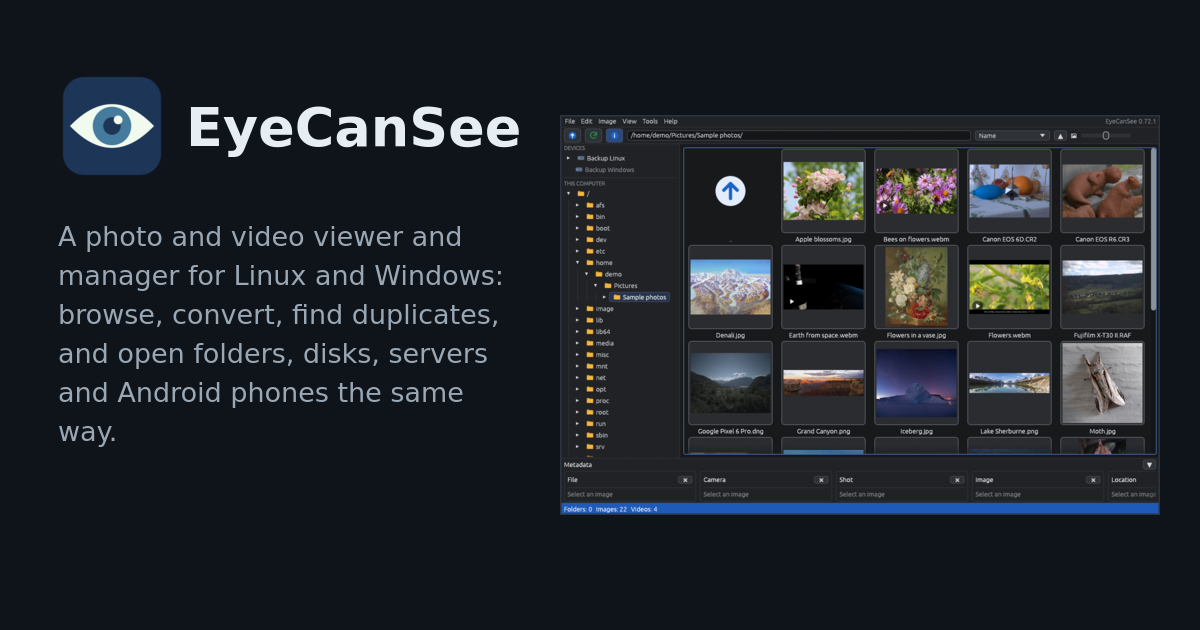
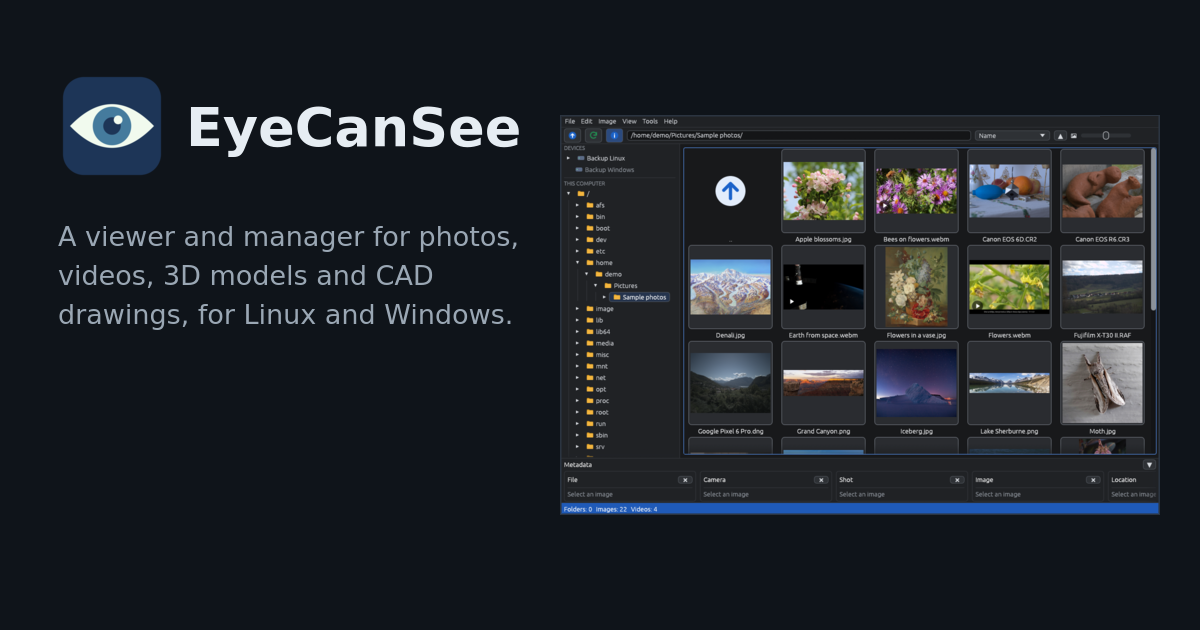
Site: titles, descriptions, image texts, link previews and structured data for search engines
Shorter titles and meta descriptions in both languages (photo, video, 3D and
CAD viewer for Linux and Windows; STEP, DWG and DXF in the description), the
same in og: and in new twitter: tags; alt texts and video labels that say
what each picture shows; clearer headings for the numbers, 3D models and CAD
drawings; "for Linux and Windows" under the English h1. A SoftwareApplication
JSON-LD block per page (data read by search engines, not a script the browser
runs), sitemap.xml with the hreflang of the two pages, robots.txt pointing to
it. Link previews: og.png with the short English sentence and og-it.png with
the Italian one, the version number in the screenshot's corner covered.

diff --git a/site/it/index.html b/site/it/index.html
@@ -3,24 +3,54 @@
 <head>
 <meta charset="utf-8">
 <meta name="viewport" content="width=device-width, initial-scale=1">
-<title>EyeCanSee: visualizzatore e gestore di foto, video, 3D e CAD per Linux e Windows</title>
-<meta name="description" content="Un visualizzatore e gestore di foto, video, modelli 3D e disegni CAD per Linux e Windows: sfoglia, converte, trova i doppioni e apre allo stesso modo cartelle, dischi, server e telefoni Android.">
+<title>EyeCanSee: visualizzatore di foto, video, 3D e CAD per Linux e Windows</title>
+<meta name="description" content="Un visualizzatore e gestore di foto, video, modelli 3D e disegni CAD per Linux e Windows. Apre STEP, DWG e DXF e sfoglia server e telefoni Android.">
 <link rel="canonical" href="https://eyecansee.montinaro.info/it/">
 <link rel="alternate" hreflang="en" href="https://eyecansee.montinaro.info/">
 <link rel="alternate" hreflang="it" href="https://eyecansee.montinaro.info/it/">
 <link rel="alternate" hreflang="x-default" href="https://eyecansee.montinaro.info/">
 <meta property="og:type" content="website">
 <meta property="og:site_name" content="EyeCanSee">
-<meta property="og:title" content="EyeCanSee: visualizzatore e gestore di foto, video, 3D e CAD per Linux e Windows">
-<meta property="og:description" content="Un visualizzatore e gestore di foto, video, modelli 3D e disegni CAD per Linux e Windows: sfoglia, converte, trova i doppioni e apre allo stesso modo cartelle, dischi, server e telefoni Android.">
+<meta property="og:title" content="EyeCanSee: visualizzatore di foto, video, 3D e CAD per Linux e Windows">
+<meta property="og:description" content="Un visualizzatore e gestore di foto, video, modelli 3D e disegni CAD per Linux e Windows. Apre STEP, DWG e DXF e sfoglia server e telefoni Android.">
 <meta property="og:url" content="https://eyecansee.montinaro.info/it/">
-<meta property="og:image" content="https://eyecansee.montinaro.info/img/og.png">
+<meta property="og:image" content="https://eyecansee.montinaro.info/img/og-it.png">
 <meta property="og:image:width" content="1200">
 <meta property="og:image:height" content="630">
-<meta property="og:image:alt" content="EyeCanSee: icona, nome e la griglia delle miniature">
+<meta property="og:image:alt" content="Icona e nome di EyeCanSee, la frase su cosa fa e la griglia delle miniature di una cartella di foto di esempio">
 <meta property="og:locale" content="it_IT">
 <meta property="og:locale:alternate" content="en_US">
 <meta name="twitter:card" content="summary_large_image">
+<meta name="twitter:title" content="EyeCanSee: visualizzatore di foto, video, 3D e CAD per Linux e Windows">
+<meta name="twitter:description" content="Un visualizzatore e gestore di foto, video, modelli 3D e disegni CAD per Linux e Windows. Apre STEP, DWG e DXF e sfoglia server e telefoni Android.">
+<meta name="twitter:image" content="https://eyecansee.montinaro.info/img/og-it.png">
+<meta name="twitter:image:alt" content="Icona e nome di EyeCanSee, la frase su cosa fa e la griglia delle miniature di una cartella di foto di esempio">
+<!-- Structured data for search engines: JSON read by them, not a script the browser runs. -->
+<script type="application/ld+json">
+{
+  "@context": "https://schema.org",
+  "@type": "SoftwareApplication",
+  "name": "EyeCanSee",
+  "description": "Un visualizzatore e gestore di foto, video, modelli 3D e disegni CAD per Linux e Windows.",
+  "url": "https://eyecansee.montinaro.info/it/",
+  "inLanguage": "it",
+  "applicationCategory": "MultimediaApplication",
+  "operatingSystem": "Linux, Windows",
+  "license": "https://spdx.org/licenses/GPL-3.0-or-later.html",
+  "isAccessibleForFree": true,
+  "offers": {
+    "@type": "Offer",
+    "price": "0",
+    "priceCurrency": "EUR"
+  },
+  "downloadUrl": "https://github.com/IoSonoPiero/eyecansee/releases/latest",
+  "sameAs": [
+    "https://github.com/IoSonoPiero/eyecansee",
+    "https://apps.microsoft.com/detail/9PK1598MXLBK"
+  ],
+  "image": "https://eyecansee.montinaro.info/img/og-it.png"
+}
+</script>
 <link rel="icon" href="../img/eyecansee.svg" type="image/svg+xml">
 <link rel="icon" href="../img/favicon-32.png" type="image/png" sizes="32x32">
 <link rel="apple-touch-icon" href="../img/apple-touch-icon.png">
@@ -33,7 +63,7 @@
     <img class="icon" src="../img/eyecansee.svg" width="96" height="96" alt="">
     <h1>EyeCanSee</h1>
     <p>Un visualizzatore e gestore di foto, video, modelli 3D e disegni CAD per Linux e Windows: sfoglia, converte, trova i doppioni e apre allo stesso modo cartelle, dischi, server e telefoni Android.</p>
-    <video class="shot" src="../img/browse.mp4" poster="../img/browse-poster.jpg" width="800" height="534" autoplay muted loop playsinline preload="metadata" aria-label="Una cartella in EyeCanSee: miniature, visore e un video"></video>
+    <video class="shot" src="../img/browse.mp4" poster="../img/browse-poster.jpg" width="800" height="534" autoplay muted loop playsinline preload="metadata" aria-label="Una cartella di foto di esempio in EyeCanSee: la griglia delle miniature, le foto nel visore e un video che si riproduce"></video>
   </div>
 </header>
 
@@ -71,14 +101,14 @@ sudo dnf install eyecansee</code></pre>
     <div class="card"><h3>Converti</h3><p>Immagini in JPEG, PNG, WebP, AVIF, TIFF e altri formati, anche tante alla volta; video con FFmpeg, sulla scheda video quando può, conservando i metadati e la traccia GPS di dashcam e droni.</p></div>
     <div class="card"><h3>Doppioni</h3><p>Trova foto, video e file audio identici in una cartella e nelle sue sottocartelle, su qualsiasi dispositivo, e ne tiene sempre almeno una copia.</p></div>
     <div class="card"><h3>Formati</h3><p>HEIC, AVIF, JPEG XL, PSD, RAW delle fotocamere di molte marche e i formati più rari con ImageMagick. In italiano e in inglese, tema chiaro e scuro.</p></div>
-    <div class="card half"><h3>Modelli 3D</h3><p>STL, OBJ, PLY, glTF, FBX, 3MF e altri, gli edifici IFC, e STEP, IGES e BREP dei CAD meccanici, con un motore scaricato una volta sola. Si vedono con colori e texture, disegnati dalla scheda video, e si esportano in glTF, OBJ, PLY o STL.</p></div>
-    <div class="card half"><h3>Disegni CAD</h3><p>DWG e DXF di AutoCAD e degli altri CAD e file HP-GL per plotter, nitidi a ogni ingrandimento, con livelli, quote, testi e la misura reale del disegno; si esportano come immagine, SVG, o da DWG a DXF e viceversa.</p></div>
+    <div class="card half"><h3>Modelli 3D, STEP e IGES</h3><p>STL, OBJ, PLY, glTF, FBX, 3MF e altri, gli edifici IFC, e STEP, IGES e BREP dei CAD meccanici, con un motore scaricato una volta sola. Si vedono con colori e texture, disegnati dalla scheda video, e si esportano in glTF, OBJ, PLY o STL.</p></div>
+    <div class="card half"><h3>Disegni CAD: DWG, DXF e HP-GL</h3><p>DWG e DXF di AutoCAD e degli altri CAD e file HP-GL per plotter, nitidi a ogni ingrandimento, con livelli, quote, testi e la misura reale del disegno; si esportano come immagine, SVG, o da DWG a DXF e viceversa.</p></div>
   </div>
 </section>
 
 <section id="numbers">
-  <h2>I numeri</h2>
-  <video class="shot" src="../img/mtp-open.mp4" poster="../img/mtp-open-poster.jpg" width="800" height="534" autoplay muted loop playsinline preload="metadata" aria-label="Una cartella del telefono aperta in EyeCanSee"></video>
+  <h2>Telefoni via USB: i numeri</h2>
+  <video class="shot" src="../img/mtp-open.mp4" poster="../img/mtp-open-poster.jpg" width="800" height="534" autoplay muted loop playsinline preload="metadata" aria-label="Una cartella di un telefono Android aperta via USB, con le miniature che compaiono subito"></video>
   <p class="caption">Una cartella di 400 file su un POCO X7 Pro via USB, Fedora 44, cache vuote.</p>
   <div class="numbers">
     <div class="number"><b>0,07 s</b><span>EyeCanSee elenca la cartella, dopo un'apertura di 0,5 s; prime miniature entro 0,8 s</span></div>
@@ -92,15 +122,15 @@ sudo dnf install eyecansee</code></pre>
 <section id="screenshots">
   <h2>Schermate</h2>
   <div class="gallery">
-    <figure><img class="shot" src="../img/grid.png" width="1200" height="800" loading="lazy" alt="La griglia: le miniature di una cartella, con dispositivi e albero delle cartelle a sinistra"><figcaption>La griglia, con dispositivi e cartelle</figcaption></figure>
-    <figure><img class="shot" src="../img/viewer.png" width="1200" height="800" loading="lazy" alt="Il visore"><figcaption>Il visore</figcaption></figure>
-    <figure><img class="shot" src="../img/model-3d.png" width="1200" height="800" loading="lazy" alt="Un modello 3D con le sue texture"><figcaption>Un modello 3D con le sue texture</figcaption></figure>
-    <figure><img class="shot" src="../img/cad-drawing.png" width="1200" height="800" loading="lazy" alt="Un disegno DWG con livelli e quote"><figcaption>Un disegno DWG con livelli e quote</figcaption></figure>
-    <figure><img class="shot" src="../img/devices.png" width="1200" height="800" loading="lazy" alt="Cartelle, dischi, un server e un telefono uno accanto all'altro nel pannello di sinistra"><figcaption>Dischi, un server e un telefono affiancati</figcaption></figure>
-    <figure><img class="shot" src="../img/convert.png" width="1200" height="800" loading="lazy" alt="Salvare in un altro formato, l'originale e il risultato affiancati"><figcaption>Salvare in un altro formato</figcaption></figure>
-    <figure><img class="shot" src="../img/video-convert.png" width="1600" height="800" loading="lazy" alt="Convertire i video, sulla scheda video quando può"><figcaption>Convertire i video</figcaption></figure>
-    <figure><img class="shot" src="../img/rotate.png" width="1200" height="800" loading="lazy" alt="Ruotare e ritagliare"><figcaption>Ruotare e ritagliare</figcaption></figure>
-    <figure><img class="shot" src="../img/servers.png" width="1200" height="800" loading="lazy" alt="La gestione dei server, con una password principale per i server salvati"><figcaption>La gestione dei server</figcaption></figure>
+    <figure><img class="shot" src="../img/grid.png" width="1200" height="800" loading="lazy" alt="La griglia delle miniature di una cartella del telefono Android, con le cartelle del telefono a sinistra"><figcaption>La griglia, con dispositivi e cartelle</figcaption></figure>
+    <figure><img class="shot" src="../img/viewer.png" width="1200" height="800" loading="lazy" alt="La foto di un'orchidea nel visore, con nome, dimensioni, zoom e data nella barra in basso"><figcaption>Il visore</figcaption></figure>
+    <figure><img class="shot" src="../img/model-3d.png" width="1200" height="800" loading="lazy" alt="Il modello 3D di un avocado con le sue texture, nel visore 3D"><figcaption>Un modello 3D con le sue texture</figcaption></figure>
+    <figure><img class="shot" src="../img/cad-drawing.png" width="1200" height="800" loading="lazy" alt="La pianta di un appartamento in DWG, con i nomi delle stanze, gli arredi e le quote"><figcaption>Un disegno DWG con livelli e quote</figcaption></figure>
+    <figure><img class="shot" src="../img/devices.png" width="1200" height="800" loading="lazy" alt="Il pannello di sinistra con due dischi, due server e un telefono, e una cartella di un server FTP aperta nella griglia"><figcaption>Dischi, un server e un telefono affiancati</figcaption></figure>
+    <figure><img class="shot" src="../img/convert.png" width="1200" height="800" loading="lazy" alt="Salva in un altro formato: il JPEG originale e quello convertito affiancati, con le opzioni di formato, qualità e metadati"><figcaption>Salvare in un altro formato</figcaption></figure>
+    <figure><img class="shot" src="../img/video-convert.png" width="1600" height="800" loading="lazy" alt="La finestra Converti e ridimensiona per quattro video: contenitore, codifica, codificatore della scheda video, qualità, rotazione e dimensioni"><figcaption>Convertire i video</figcaption></figure>
+    <figure><img class="shot" src="../img/rotate.png" width="1200" height="800" loading="lazy" alt="Ruota e ritaglia: una foto di montagna con il riquadro del ritaglio e i comandi di rotazione e ritaglio"><figcaption>Ruotare e ritagliare</figcaption></figure>
+    <figure><img class="shot" src="../img/servers.png" width="1200" height="800" loading="lazy" alt="La gestione dei server: un server FTP salvato e la password principale che cifra i server salvati"><figcaption>La gestione dei server</figcaption></figure>
   </div>
   <p class="caption">Le schermate mostrano l'interfaccia in inglese; il programma è anche in italiano.</p>
 </section>

diff --git a/site/index.html b/site/index.html
@@ -3,24 +3,54 @@
 <head>
 <meta charset="utf-8">
 <meta name="viewport" content="width=device-width, initial-scale=1">
-<title>EyeCanSee: photo, video, 3D and CAD viewer and manager for Linux and Windows</title>
-<meta name="description" content="A viewer and manager for photos, videos, 3D models and CAD drawings, on Linux and Windows: browse, convert, find duplicates, and open folders, disks, servers and Android phones the same way.">
+<title>EyeCanSee: photo, video, 3D and CAD viewer for Linux and Windows</title>
+<meta name="description" content="A viewer and manager for photos, videos, 3D models and CAD drawings, for Linux and Windows. Opens STEP, DWG and DXF, and browses servers and Android phones.">
 <link rel="canonical" href="https://eyecansee.montinaro.info/">
 <link rel="alternate" hreflang="en" href="https://eyecansee.montinaro.info/">
 <link rel="alternate" hreflang="it" href="https://eyecansee.montinaro.info/it/">
 <link rel="alternate" hreflang="x-default" href="https://eyecansee.montinaro.info/">
 <meta property="og:type" content="website">
 <meta property="og:site_name" content="EyeCanSee">
-<meta property="og:title" content="EyeCanSee: photo, video, 3D and CAD viewer and manager for Linux and Windows">
-<meta property="og:description" content="A viewer and manager for photos, videos, 3D models and CAD drawings, on Linux and Windows: browse, convert, find duplicates, and open folders, disks, servers and Android phones the same way.">
+<meta property="og:title" content="EyeCanSee: photo, video, 3D and CAD viewer for Linux and Windows">
+<meta property="og:description" content="A viewer and manager for photos, videos, 3D models and CAD drawings, for Linux and Windows. Opens STEP, DWG and DXF, and browses servers and Android phones.">
 <meta property="og:url" content="https://eyecansee.montinaro.info/">
 <meta property="og:image" content="https://eyecansee.montinaro.info/img/og.png">
 <meta property="og:image:width" content="1200">
 <meta property="og:image:height" content="630">
-<meta property="og:image:alt" content="EyeCanSee: the icon, the name and the thumbnail grid">
+<meta property="og:image:alt" content="The EyeCanSee icon and name, the sentence about what it does, and the thumbnail grid of a folder of sample photos">
 <meta property="og:locale" content="en_US">
 <meta property="og:locale:alternate" content="it_IT">
 <meta name="twitter:card" content="summary_large_image">
+<meta name="twitter:title" content="EyeCanSee: photo, video, 3D and CAD viewer for Linux and Windows">
+<meta name="twitter:description" content="A viewer and manager for photos, videos, 3D models and CAD drawings, for Linux and Windows. Opens STEP, DWG and DXF, and browses servers and Android phones.">
+<meta name="twitter:image" content="https://eyecansee.montinaro.info/img/og.png">
+<meta name="twitter:image:alt" content="The EyeCanSee icon and name, the sentence about what it does, and the thumbnail grid of a folder of sample photos">
+<!-- Structured data for search engines: JSON read by them, not a script the browser runs. -->
+<script type="application/ld+json">
+{
+  "@context": "https://schema.org",
+  "@type": "SoftwareApplication",
+  "name": "EyeCanSee",
+  "description": "A viewer and manager for photos, videos, 3D models and CAD drawings, for Linux and Windows.",
+  "url": "https://eyecansee.montinaro.info/",
+  "inLanguage": "en",
+  "applicationCategory": "MultimediaApplication",
+  "operatingSystem": "Linux, Windows",
+  "license": "https://spdx.org/licenses/GPL-3.0-or-later.html",
+  "isAccessibleForFree": true,
+  "offers": {
+    "@type": "Offer",
+    "price": "0",
+    "priceCurrency": "EUR"
+  },
+  "downloadUrl": "https://github.com/IoSonoPiero/eyecansee/releases/latest",
+  "sameAs": [
+    "https://github.com/IoSonoPiero/eyecansee",
+    "https://apps.microsoft.com/detail/9PK1598MXLBK"
+  ],
+  "image": "https://eyecansee.montinaro.info/img/og.png"
+}
+</script>
 <link rel="icon" href="img/eyecansee.svg" type="image/svg+xml">
 <link rel="icon" href="img/favicon-32.png" type="image/png" sizes="32x32">
 <link rel="apple-touch-icon" href="img/apple-touch-icon.png">
@@ -32,8 +62,8 @@
   <div class="hero">
     <img class="icon" src="img/eyecansee.svg" width="96" height="96" alt="">
     <h1>EyeCanSee</h1>
-    <p>A viewer and manager for photos, videos, 3D models and CAD drawings, on Linux and Windows: browse, convert, find duplicates, and open folders, disks, servers and Android phones the same way.</p>
-    <video class="shot" src="img/browse.mp4" poster="img/browse-poster.jpg" width="800" height="534" autoplay muted loop playsinline preload="metadata" aria-label="Browsing a folder in EyeCanSee: thumbnails, the viewer and a video"></video>
+    <p>A viewer and manager for photos, videos, 3D models and CAD drawings, for Linux and Windows: browse, convert, find duplicates, and open folders, disks, servers and Android phones the same way.</p>
+    <video class="shot" src="img/browse.mp4" poster="img/browse-poster.jpg" width="800" height="534" autoplay muted loop playsinline preload="metadata" aria-label="Browsing a folder of sample photos in EyeCanSee: the thumbnail grid, photos in the viewer and a video playing"></video>
   </div>
 </header>
 
@@ -71,14 +101,14 @@ sudo dnf install eyecansee</code></pre>
     <div class="card"><h3>Convert</h3><p>Images to JPEG, PNG, WebP, AVIF, TIFF and more, many files at once; videos with FFmpeg, on the graphics card when it can, keeping the metadata and the GPS track of dashcams and drones.</p></div>
     <div class="card"><h3>Duplicates</h3><p>Finds identical photos, videos and audio files in a folder and its subfolders, on any device, and always keeps at least one copy.</p></div>
     <div class="card"><h3>Formats</h3><p>HEIC, AVIF, JPEG XL, PSD, Camera RAW from many brands, and rarer formats through ImageMagick. English and Italian, light and dark theme.</p></div>
-    <div class="card half"><h3>3D models</h3><p>STL, OBJ, PLY, glTF, FBX, 3MF and more, IFC buildings, and STEP, IGES and BREP from mechanical CAD, with an engine downloaded once. Shown with their colours and textures, drawn by the graphics card, and exported to glTF, OBJ, PLY or STL.</p></div>
-    <div class="card half"><h3>CAD drawings</h3><p>DWG and DXF from AutoCAD and other CAD programs, and HP-GL plot files, sharp at any zoom, with layers, dimensions and texts and the drawing's real size; exported as images, SVG, or from DWG to DXF and back.</p></div>
+    <div class="card half"><h3>3D models, STEP and IGES</h3><p>STL, OBJ, PLY, glTF, FBX, 3MF and more, IFC buildings, and STEP, IGES and BREP from mechanical CAD, with an engine downloaded once. Shown with their colours and textures, drawn by the graphics card, and exported to glTF, OBJ, PLY or STL.</p></div>
+    <div class="card half"><h3>CAD drawings: DWG, DXF and HP-GL</h3><p>DWG and DXF from AutoCAD and other CAD programs, and HP-GL plot files, sharp at any zoom, with layers, dimensions and texts and the drawing's real size; exported as images, SVG, or from DWG to DXF and back.</p></div>
   </div>
 </section>
 
 <section id="numbers">
-  <h2>The numbers</h2>
-  <video class="shot" src="img/mtp-open.mp4" poster="img/mtp-open-poster.jpg" width="800" height="534" autoplay muted loop playsinline preload="metadata" aria-label="Opening a phone folder in EyeCanSee"></video>
+  <h2>Phones over USB: the numbers</h2>
+  <video class="shot" src="img/mtp-open.mp4" poster="img/mtp-open-poster.jpg" width="800" height="534" autoplay muted loop playsinline preload="metadata" aria-label="A folder on an Android phone opened over USB, its thumbnails appearing at once"></video>
   <p class="caption">A folder of 400 files on a POCO X7 Pro over USB, Fedora 44, cold caches.</p>
   <div class="numbers">
     <div class="number"><b>0.07 s</b><span>EyeCanSee lists the folder, after a 0.5 s open; first thumbnails within 0.8 s</span></div>
@@ -92,15 +122,15 @@ sudo dnf install eyecansee</code></pre>
 <section id="screenshots">
   <h2>Screenshots</h2>
   <div class="gallery">
-    <figure><img class="shot" src="img/grid.png" width="1200" height="800" loading="lazy" alt="The grid: thumbnails of a folder, with the devices and the folder tree on the left"><figcaption>The grid, with devices and folders</figcaption></figure>
-    <figure><img class="shot" src="img/viewer.png" width="1200" height="800" loading="lazy" alt="The viewer"><figcaption>The viewer</figcaption></figure>
-    <figure><img class="shot" src="img/model-3d.png" width="1200" height="800" loading="lazy" alt="A 3D model with its textures"><figcaption>A 3D model with its textures</figcaption></figure>
-    <figure><img class="shot" src="img/cad-drawing.png" width="1200" height="800" loading="lazy" alt="A DWG drawing with layers and dimensions"><figcaption>A DWG drawing with layers and dimensions</figcaption></figure>
-    <figure><img class="shot" src="img/devices.png" width="1200" height="800" loading="lazy" alt="Folders, disks, a server and a phone side by side in the left panel"><figcaption>Disks, a server and a phone side by side</figcaption></figure>
-    <figure><img class="shot" src="img/convert.png" width="1200" height="800" loading="lazy" alt="Saving in another format, the original and the result side by side"><figcaption>Saving in another format</figcaption></figure>
-    <figure><img class="shot" src="img/video-convert.png" width="1600" height="800" loading="lazy" alt="Converting videos, on the graphics card when it can"><figcaption>Converting videos</figcaption></figure>
-    <figure><img class="shot" src="img/rotate.png" width="1200" height="800" loading="lazy" alt="Rotating and cropping"><figcaption>Rotating and cropping</figcaption></figure>
-    <figure><img class="shot" src="img/servers.png" width="1200" height="800" loading="lazy" alt="The server manager, with a master password for the saved servers"><figcaption>The server manager</figcaption></figure>
+    <figure><img class="shot" src="img/grid.png" width="1200" height="800" loading="lazy" alt="The thumbnail grid of a folder on an Android phone, with the phone's folders on the left"><figcaption>The grid, with devices and folders</figcaption></figure>
+    <figure><img class="shot" src="img/viewer.png" width="1200" height="800" loading="lazy" alt="A photo of an orchid in the viewer, with name, size, zoom and date in the bar below"><figcaption>The viewer</figcaption></figure>
+    <figure><img class="shot" src="img/model-3d.png" width="1200" height="800" loading="lazy" alt="A 3D model of an avocado with its textures, in the 3D viewer"><figcaption>A 3D model with its textures</figcaption></figure>
+    <figure><img class="shot" src="img/cad-drawing.png" width="1200" height="800" loading="lazy" alt="A DWG floor plan of a flat, with room names, furniture and dimensions"><figcaption>A DWG drawing with layers and dimensions</figcaption></figure>
+    <figure><img class="shot" src="img/devices.png" width="1200" height="800" loading="lazy" alt="The left panel with two disks, two servers and a phone, and a folder of an FTP server open in the grid"><figcaption>Disks, a server and a phone side by side</figcaption></figure>
+    <figure><img class="shot" src="img/convert.png" width="1200" height="800" loading="lazy" alt="Save in another format: the original JPEG and the converted one side by side, with format, quality and metadata options"><figcaption>Saving in another format</figcaption></figure>
+    <figure><img class="shot" src="img/video-convert.png" width="1600" height="800" loading="lazy" alt="The Convert and resize window for four videos: container, codec, graphics card encoder, quality, turn and size"><figcaption>Converting videos</figcaption></figure>
+    <figure><img class="shot" src="img/rotate.png" width="1200" height="800" loading="lazy" alt="Rotate and crop: a mountain photo with the crop frame and the rotation and crop controls"><figcaption>Rotating and cropping</figcaption></figure>
+    <figure><img class="shot" src="img/servers.png" width="1200" height="800" loading="lazy" alt="The server manager: a saved FTP server and the master password that encrypts the saved servers"><figcaption>The server manager</figcaption></figure>
   </div>
 </section>
 
